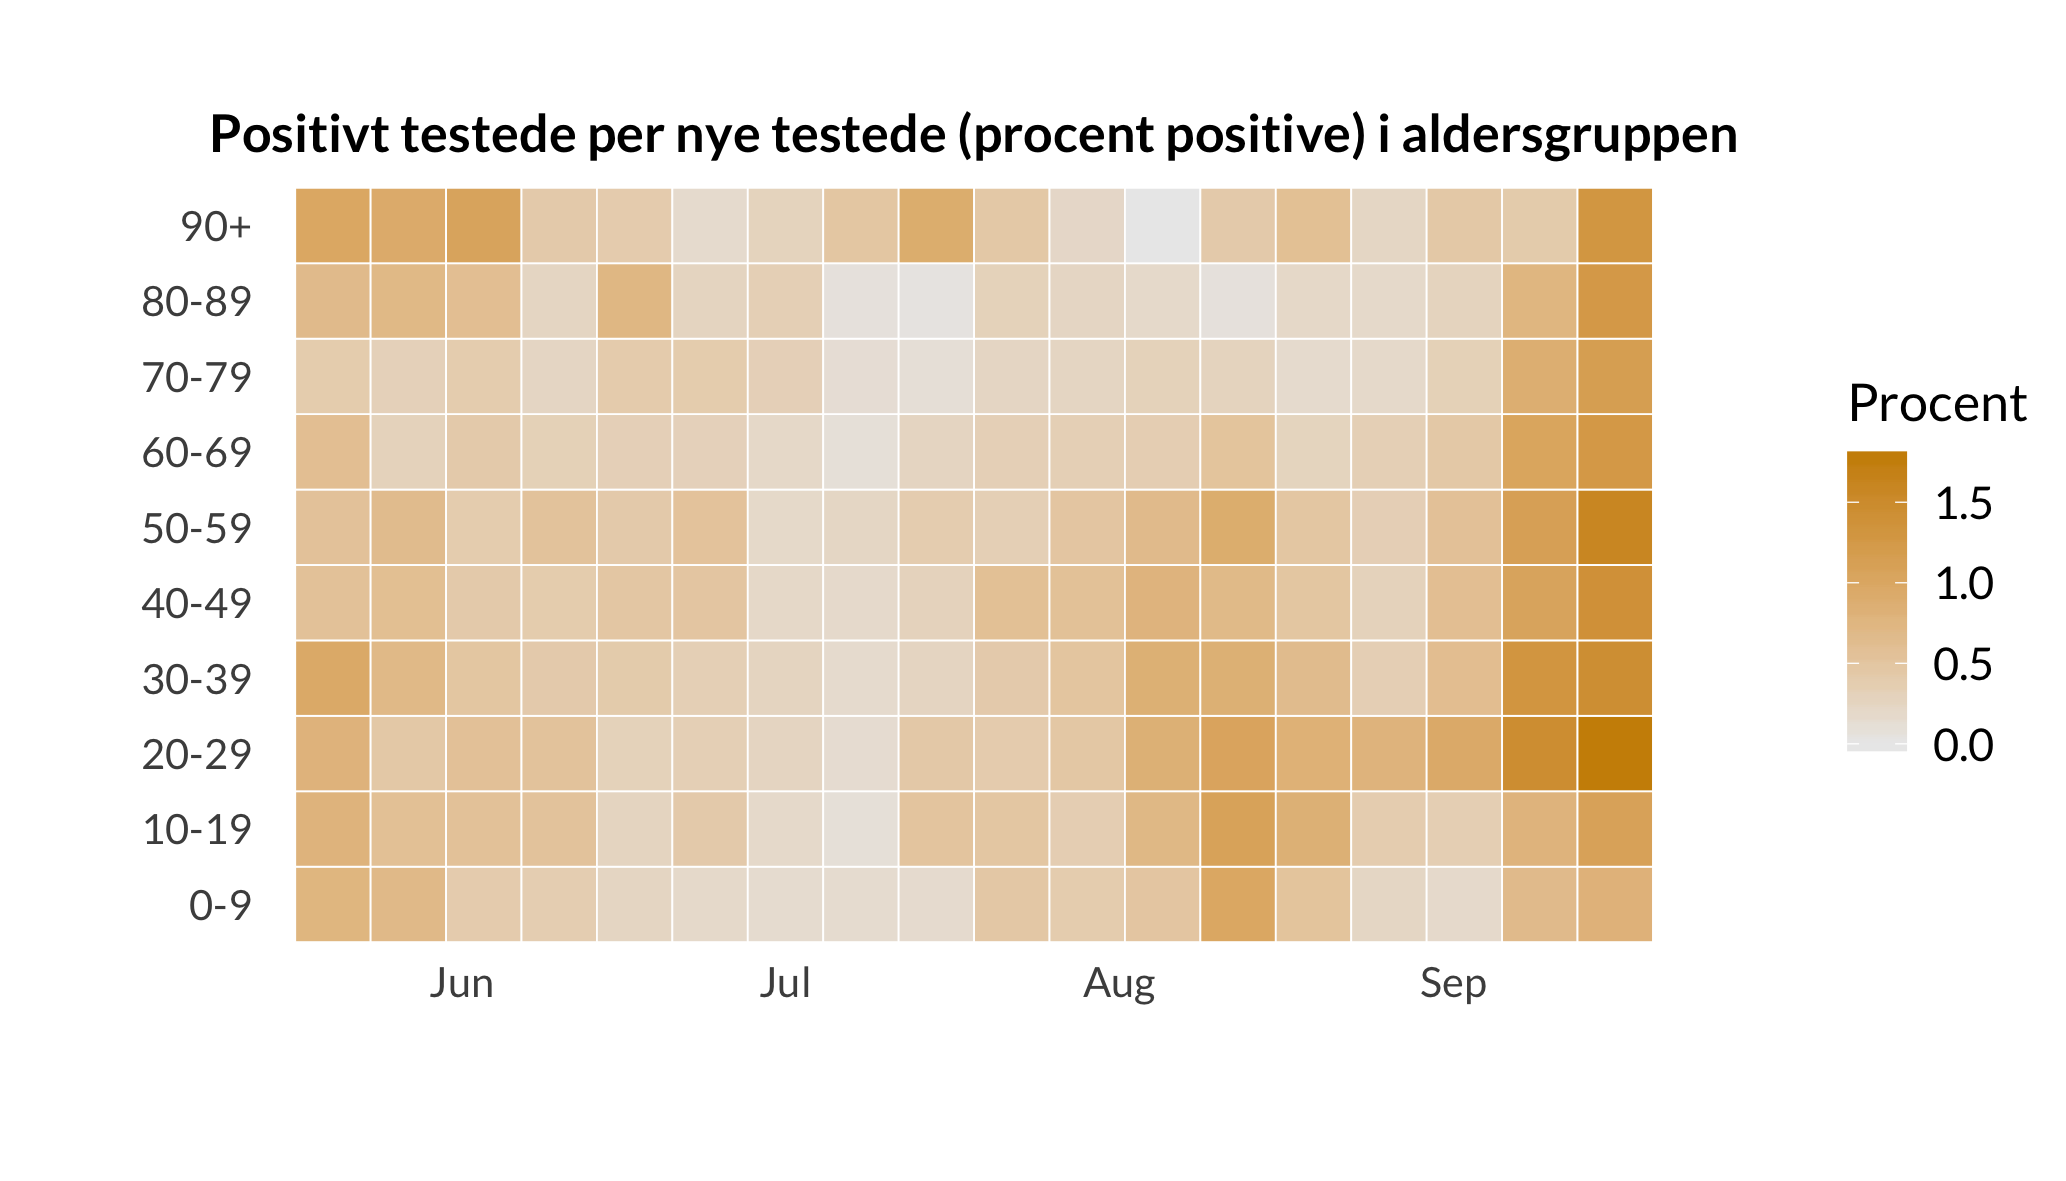
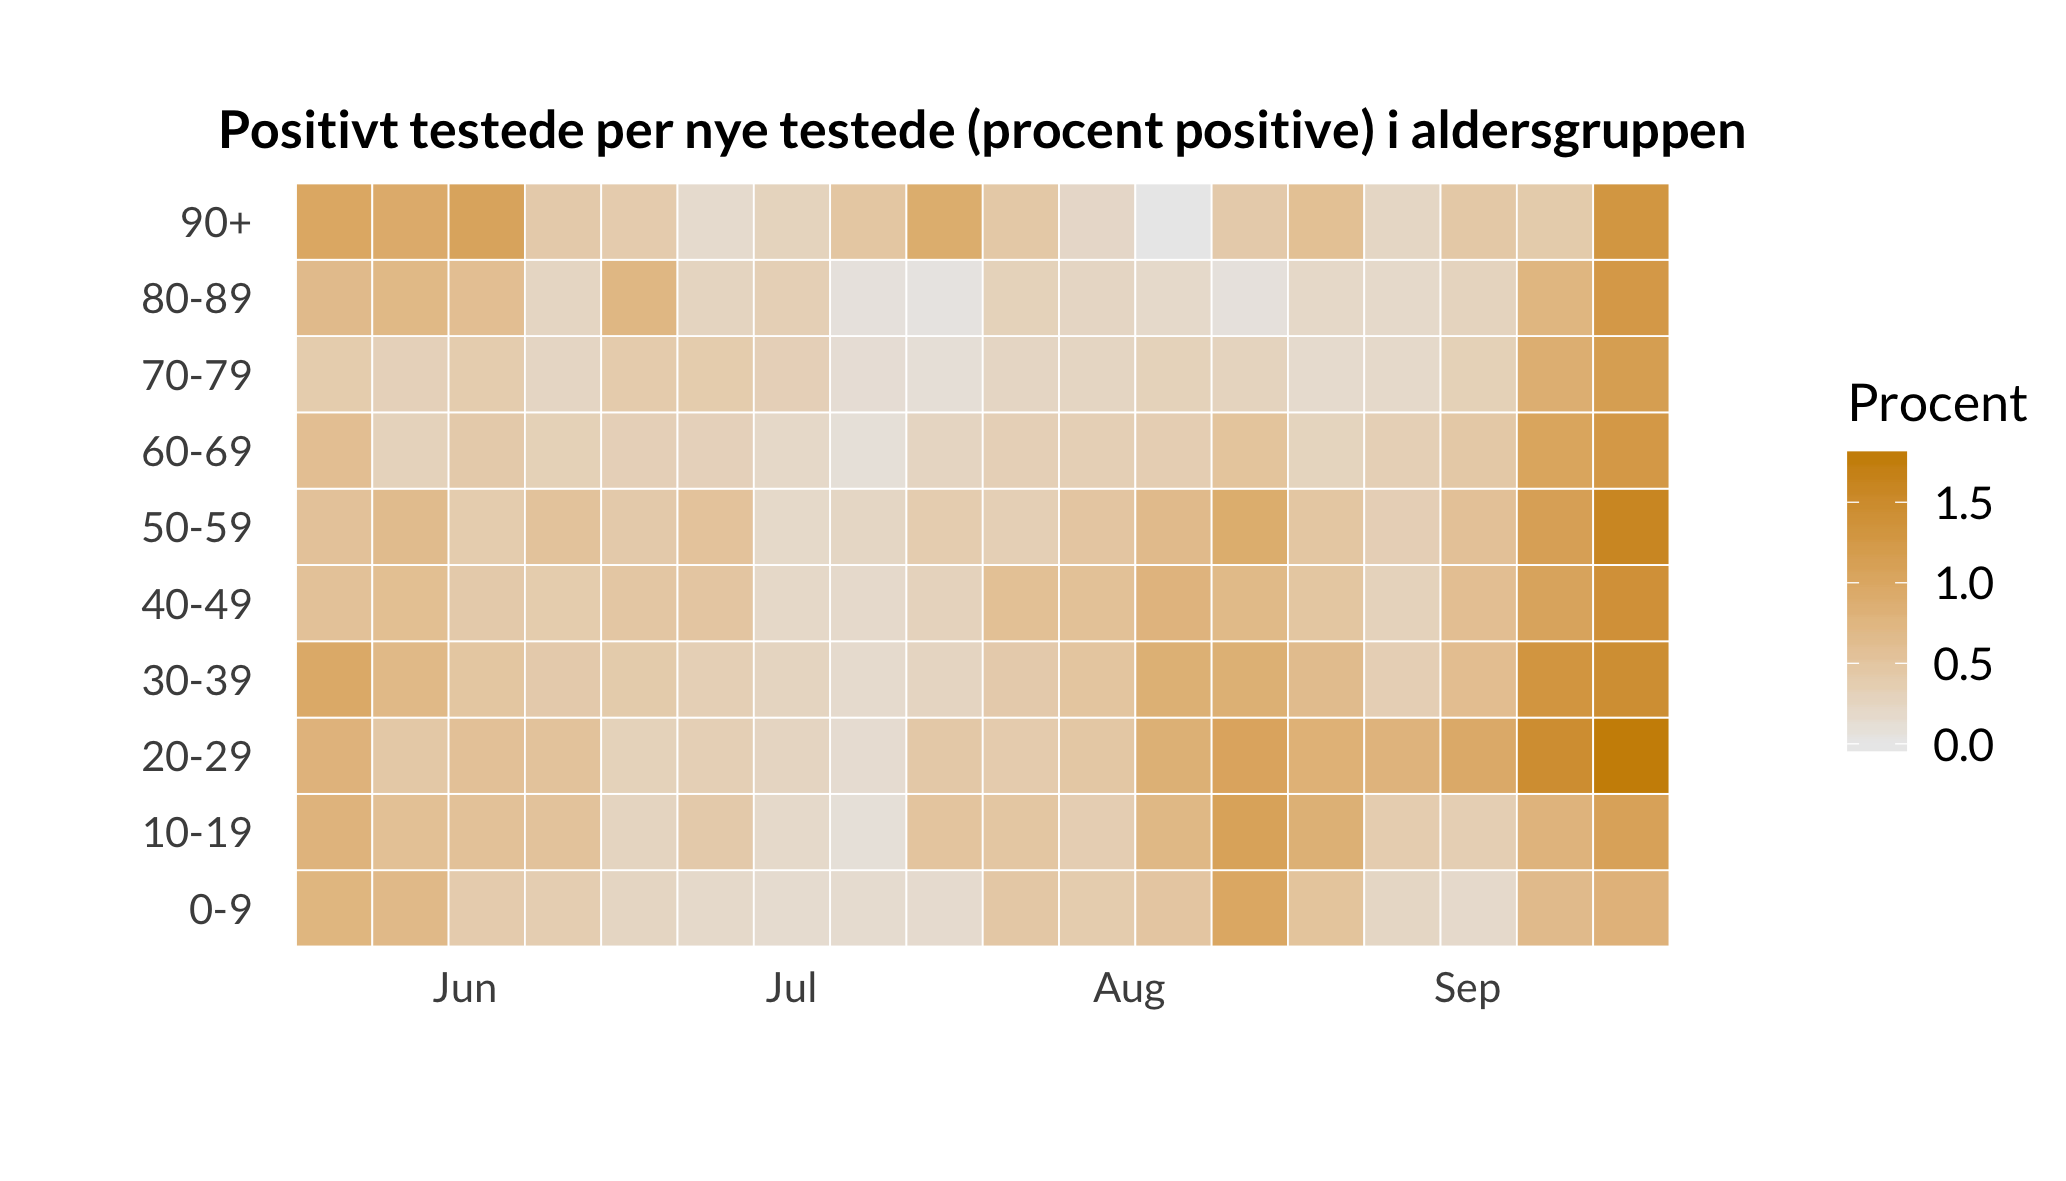
Update plots

diff --git a/README.md b/README.md
@@ -180,7 +180,7 @@ Bemærk at antal testede i de aldersopdelte data er *nye* testede, altså person
 
 Ugentlig procentdel positivt testede per aldersgruppe siden maj:
 
-<img align="right" width="630"  src="https://github.com/ktbaek/COVID-19-Danmark/blob/master/figures/age_weekly_pct_tile_may.png">
+<img align="right" width="650"  src="https://github.com/ktbaek/COVID-19-Danmark/blob/master/figures/age_weekly_pct_tile_may.png">
 
 <br clear="right"/>
 
